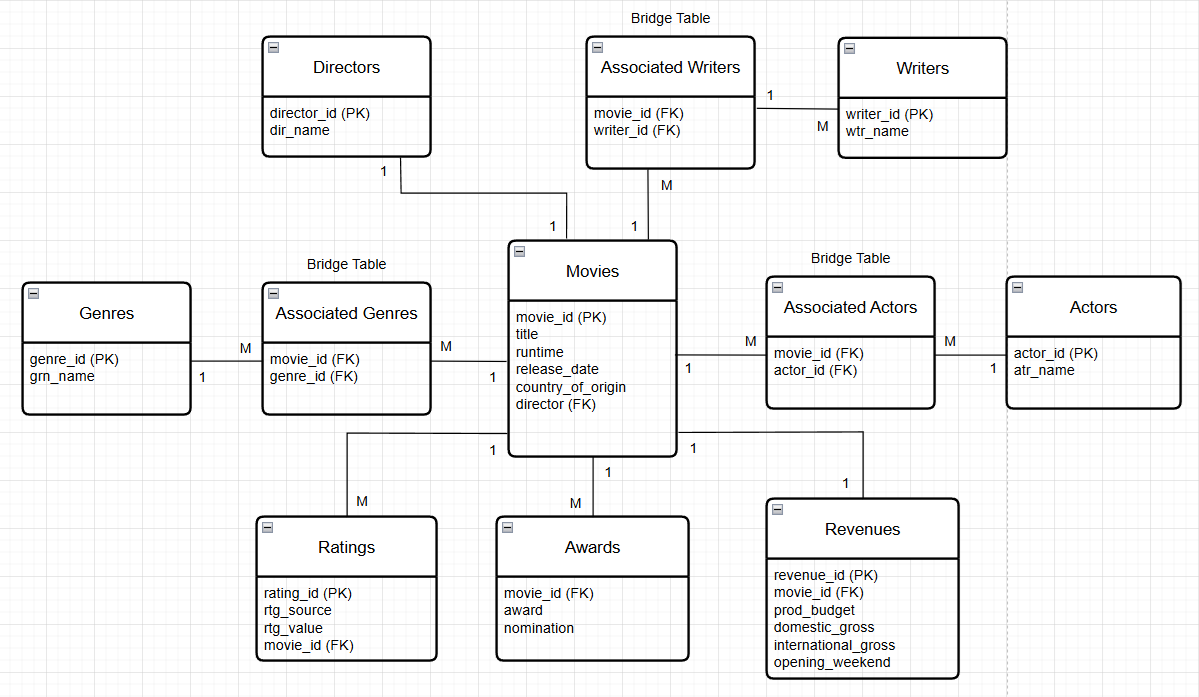
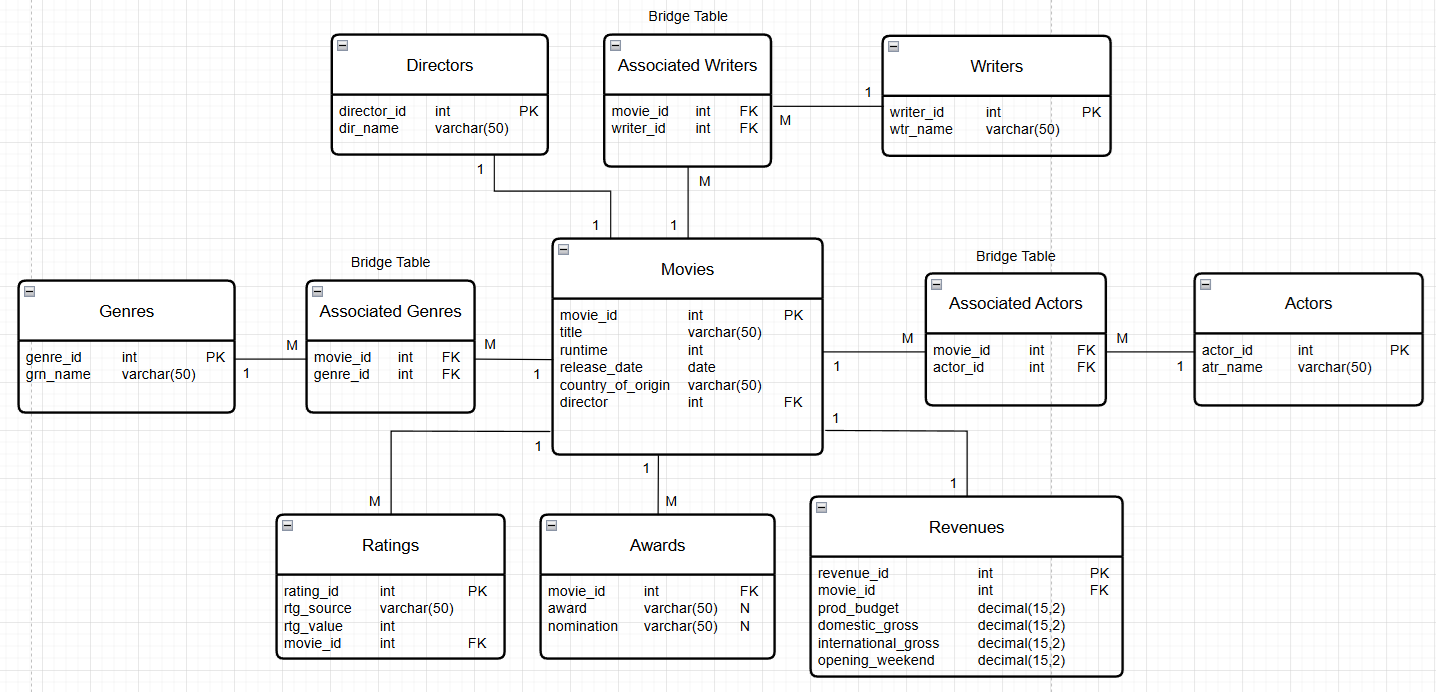
updates - readme, gitignore, db scripts, db schema

diff --git a/README.md b/README.md
@@ -5,5 +5,13 @@ Final report (coming soon).
 ---
 
 <b>Author:</b> Nilrudra Mukhopadhyay<br>
-<b>Project start date:</b> 26-12-2025<br>
-<b>Project end date:</b> N/A
+<b>Project Type:</b> Data analyst portfolio project - independently built<br>
+<b>Tech Stack:</b>
+
+- Python
+- Microsoft SQL express server
+- Microsoft SQL sever management studio (SSMS)
+- Visual studio code
+- PowerBI
+- MS Excel
+- Git bash/Github
